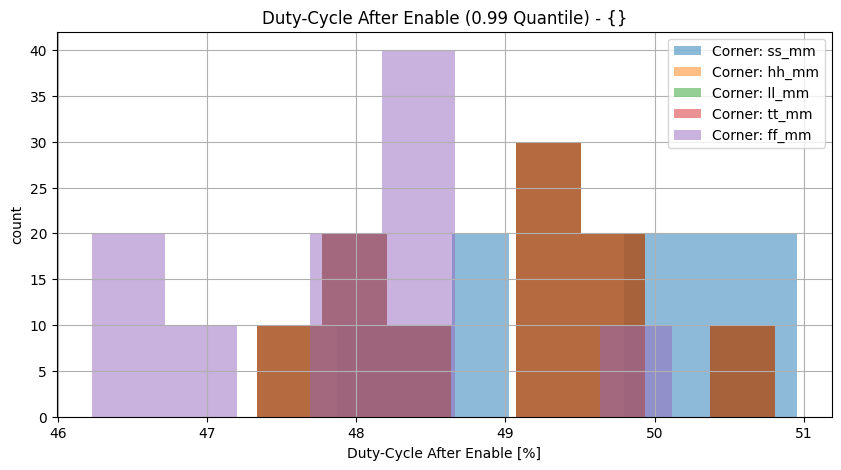
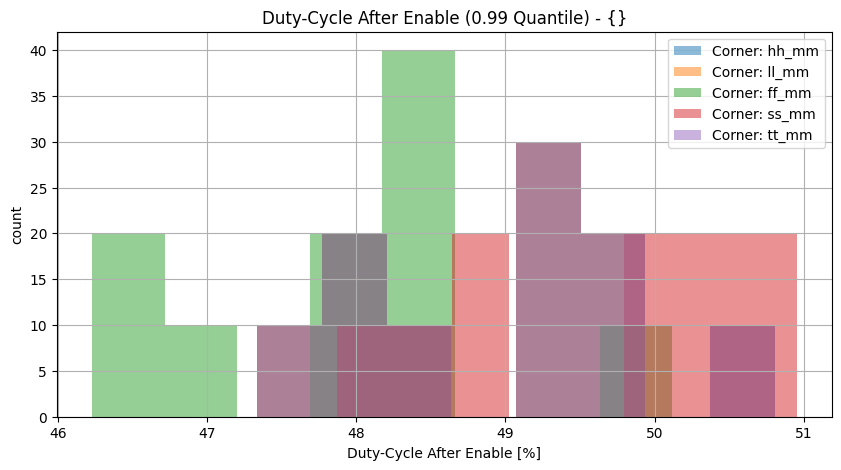
Jenkins update

Changed region(s): [[0.0927, 0.0894, 0.9584, 0.8936], [0.8966, 0.0894, 0.9893, 0.2085], [0.8966, 0.2383, 0.9893, 0.2979]]

diff --git a/riosc/riosc/Readme.md b/riosc/riosc/Readme.md
@@ -1,4 +1,4 @@
-28.02.2023, 12:41:00
+28.02.2023, 13:57:19
 
 # Ring Oscillator
 
@@ -43,9 +43,9 @@ LVS-state: Netlists match uniquely.<br>
 
 | Parameter | Min (Spec. / Sim.) |      | Max (Sim. / Spec.) | Unit | Checks (total/pass/fail/NaN) | Comment |
 | :-------- | -----------------: | :--: | :----------------- | :--- | :--------------------------- | ------- |
-| High Duration | 10.0 / 48.108 | <svg height="20" width="150"><polyline points="3.0,3,3.0,17,147.0,17,147.0,3" style="fill:none;stroke:gray;stroke-width:1" /><polyline points="75.0,10.0,75.0,17" style="fill:none;stroke:gray;stroke-width:1" /><polyline points="63.9728,10.0,93.3648,10.0" style="stroke:green;stroke-width:2" /><circle cx="63.9728" cy="10.0" r="3" style="fill:green;stroke:green;stroke-width:0" /><circle cx="93.3648" cy="10.0" r="3" style="fill:green;stroke:green;stroke-width:0" /></svg> | 66.478 / 100.0 | ns | 45/100.0%/0.0%/0.0% | Last period before oscillator disable |
-| Period Duration | 20.0 / 99.14 | <svg height="20" width="150"><polyline points="3.0,3,3.0,17,147.0,17,147.0,3" style="fill:none;stroke:gray;stroke-width:1" /><polyline points="75.0,10.0,75.0,17" style="fill:none;stroke:gray;stroke-width:1" /><polyline points="66.312256,10.0,99.16136,10.0" style="stroke:green;stroke-width:2" /><circle cx="66.312256" cy="10.0" r="3" style="fill:green;stroke:green;stroke-width:0" /><circle cx="99.16136" cy="10.0" r="3" style="fill:green;stroke:green;stroke-width:0" /></svg> | 140.202 / 200.0 | ns | 45/100.0%/0.0%/0.0% | First period after oscillator enable |
-| Duty-Cycle | 40 / 45.391 | <svg height="20" width="150"><polyline points="3.0,3,3.0,17,147.0,17,147.0,3" style="fill:none;stroke:gray;stroke-width:1" /><polyline points="75.0,10.0,75.0,17" style="fill:none;stroke:gray;stroke-width:1" /><polyline points="41.812248000000025,10.0,77.80296,10.0" style="stroke:green;stroke-width:2" /><circle cx="41.812248000000025" cy="10.0" r="3" style="fill:green;stroke:green;stroke-width:0" /><circle cx="77.80296" cy="10.0" r="3" style="fill:green;stroke:green;stroke-width:0" /></svg> | 50.389 / 60 | % | 45/100.0%/0.0%/0.0% | First period after oscillator enable |
+| High Duration | 10.0 / 48.034 | <svg height="20" width="150"><polyline points="3.0,3,3.0,17,147.0,17,147.0,3" style="fill:none;stroke:gray;stroke-width:1" /><polyline points="75.0,10.0,75.0,17" style="fill:none;stroke:gray;stroke-width:1" /><polyline points="63.85439999999999,10.0,92.72160000000001,10.0" style="stroke:green;stroke-width:2" /><circle cx="63.85439999999999" cy="10.0" r="3" style="fill:green;stroke:green;stroke-width:0" /><circle cx="92.72160000000001" cy="10.0" r="3" style="fill:green;stroke:green;stroke-width:0" /></svg> | 66.076 / 100.0 | ns | 45/100.0%/0.0%/0.0% | Last period before oscillator disable |
+| Period Duration | 20.0 / 98.895 | <svg height="20" width="150"><polyline points="3.0,3,3.0,17,147.0,17,147.0,3" style="fill:none;stroke:gray;stroke-width:1" /><polyline points="75.0,10.0,75.0,17" style="fill:none;stroke:gray;stroke-width:1" /><polyline points="66.11639199999999,10.0,98.66888000000002,10.0" style="stroke:green;stroke-width:2" /><circle cx="66.11639199999999" cy="10.0" r="3" style="fill:green;stroke:green;stroke-width:0" /><circle cx="98.66888000000002" cy="10.0" r="3" style="fill:green;stroke:green;stroke-width:0" /></svg> | 139.586 / 200.0 | ns | 45/100.0%/0.0%/0.0% | First period after oscillator enable |
+| Duty-Cycle | 40 / 45.894 | <svg height="20" width="150"><polyline points="3.0,3,3.0,17,147.0,17,147.0,3" style="fill:none;stroke:gray;stroke-width:1" /><polyline points="75.0,10.0,75.0,17" style="fill:none;stroke:gray;stroke-width:1" /><polyline points="45.43514400000003,10.0,79.950144,10.0" style="stroke:green;stroke-width:2" /><circle cx="45.43514400000003" cy="10.0" r="3" style="fill:green;stroke:green;stroke-width:0" /><circle cx="79.950144" cy="10.0" r="3" style="fill:green;stroke:green;stroke-width:0" /></svg> | 50.688 / 60 | % | 45/100.0%/0.0%/0.0% | First period after oscillator enable |
 
 <br>
 
@@ -54,9 +54,9 @@ LVS-state: Netlists match uniquely.<br>
 
 | Parameter | Min (Spec. / Sim.) |      | Max (Sim. / Spec.) | Unit | Checks (total/pass/fail/NaN) | Comment |
 | :-------- | -----------------: | :--: | :----------------- | :--- | :--------------------------- | ------- |
-| High Duration | 10.0 / 44.646 | <svg height="20" width="150"><polyline points="3.0,3,3.0,17,147.0,17,147.0,3" style="fill:none;stroke:gray;stroke-width:1" /><polyline points="75.0,10.0,75.0,17" style="fill:none;stroke:gray;stroke-width:1" /><polyline points="58.433600000000006,10.0,84.07360000000001,10.0" style="stroke:green;stroke-width:2" /><circle cx="58.433600000000006" cy="10.0" r="3" style="fill:green;stroke:green;stroke-width:0" /><circle cx="84.07360000000001" cy="10.0" r="3" style="fill:green;stroke:green;stroke-width:0" /></svg> | 60.671 / 100.0 | ns | 500/100.0%/0.0%/0.0% | Last period before oscillator disable |
-| Period Duration | 20.0 / 91.752 | <svg height="20" width="150"><polyline points="3.0,3,3.0,17,147.0,17,147.0,3" style="fill:none;stroke:gray;stroke-width:1" /><polyline points="75.0,10.0,75.0,17" style="fill:none;stroke:gray;stroke-width:1" /><polyline points="60.401976000000005,10.0,87.69480000000001,10.0" style="stroke:green;stroke-width:2" /><circle cx="60.401976000000005" cy="10.0" r="3" style="fill:green;stroke:green;stroke-width:0" /><circle cx="87.69480000000001" cy="10.0" r="3" style="fill:green;stroke:green;stroke-width:0" /></svg> | 125.869 / 200.0 | ns | 500/100.0%/0.0%/0.0% | First period after oscillator enable |
-| Duty-Cycle | 40 / 43.899 | <svg height="20" width="150"><polyline points="3.0,3,3.0,17,147.0,17,147.0,3" style="fill:none;stroke:gray;stroke-width:1" /><polyline points="75.0,10.0,75.0,17" style="fill:none;stroke:gray;stroke-width:1" /><polyline points="31.070208000000004,10.0,87.930696,10.0" style="stroke:green;stroke-width:2" /><circle cx="31.070208000000004" cy="10.0" r="3" style="fill:green;stroke:green;stroke-width:0" /><circle cx="87.930696" cy="10.0" r="3" style="fill:green;stroke:green;stroke-width:0" /></svg> | 51.796 / 60 | % | 500/100.0%/0.0%/0.0% | First period after oscillator enable |
+| High Duration | 10.0 / 44.541 | <svg height="20" width="150"><polyline points="3.0,3,3.0,17,147.0,17,147.0,3" style="fill:none;stroke:gray;stroke-width:1" /><polyline points="75.0,10.0,75.0,17" style="fill:none;stroke:gray;stroke-width:1" /><polyline points="58.265600000000006,10.0,84.50880000000001,10.0" style="stroke:green;stroke-width:2" /><circle cx="58.265600000000006" cy="10.0" r="3" style="fill:green;stroke:green;stroke-width:0" /><circle cx="84.50880000000001" cy="10.0" r="3" style="fill:green;stroke:green;stroke-width:0" /></svg> | 60.943 / 100.0 | ns | 500/100.0%/0.0%/0.0% | Last period before oscillator disable |
+| Period Duration | 20.0 / 91.532 | <svg height="20" width="150"><polyline points="3.0,3,3.0,17,147.0,17,147.0,3" style="fill:none;stroke:gray;stroke-width:1" /><polyline points="75.0,10.0,75.0,17" style="fill:none;stroke:gray;stroke-width:1" /><polyline points="60.22532799999999,10.0,86.82624000000001,10.0" style="stroke:green;stroke-width:2" /><circle cx="60.22532799999999" cy="10.0" r="3" style="fill:green;stroke:green;stroke-width:0" /><circle cx="86.82624000000001" cy="10.0" r="3" style="fill:green;stroke:green;stroke-width:0" /></svg> | 124.783 / 200.0 | ns | 500/100.0%/0.0%/0.0% | First period after oscillator enable |
+| Duty-Cycle | 40 / 44.027 | <svg height="20" width="150"><polyline points="3.0,3,3.0,17,147.0,17,147.0,3" style="fill:none;stroke:gray;stroke-width:1" /><polyline points="75.0,10.0,75.0,17" style="fill:none;stroke:gray;stroke-width:1" /><polyline points="31.992527999999975,10.0,89.03906399999998,10.0" style="stroke:green;stroke-width:2" /><circle cx="31.992527999999975" cy="10.0" r="3" style="fill:green;stroke:green;stroke-width:0" /><circle cx="89.03906399999998" cy="10.0" r="3" style="fill:green;stroke:green;stroke-width:0" /></svg> | 51.95 / 60 | % | 500/100.0%/0.0%/0.0% | First period after oscillator enable |
 
 <br>
 

diff --git a/riosc/riosc/specReport.md b/riosc/riosc/specReport.md
@@ -25,9 +25,9 @@
 
 | Parameter | Min (Spec. / Sim.) |      | Max (Sim. / Spec.) | Unit | Checks (total/pass/fail/NaN) | Comment |
 | :-------- | -----------------: | :--: | :----------------- | :--- | :--------------------------- | ------- |
-| High Duration | 10.0 / 48.108 | <svg height="20" width="150"><polyline points="3.0,3,3.0,17,147.0,17,147.0,3" style="fill:none;stroke:gray;stroke-width:1" /><polyline points="75.0,10.0,75.0,17" style="fill:none;stroke:gray;stroke-width:1" /><polyline points="63.9728,10.0,93.3648,10.0" style="stroke:green;stroke-width:2" /><circle cx="63.9728" cy="10.0" r="3" style="fill:green;stroke:green;stroke-width:0" /><circle cx="93.3648" cy="10.0" r="3" style="fill:green;stroke:green;stroke-width:0" /></svg> | 66.478 / 100.0 | ns | 45/100.0%/0.0%/0.0% | Last period before oscillator disable |
-| Period Duration | 20.0 / 99.14 | <svg height="20" width="150"><polyline points="3.0,3,3.0,17,147.0,17,147.0,3" style="fill:none;stroke:gray;stroke-width:1" /><polyline points="75.0,10.0,75.0,17" style="fill:none;stroke:gray;stroke-width:1" /><polyline points="66.312256,10.0,99.16136,10.0" style="stroke:green;stroke-width:2" /><circle cx="66.312256" cy="10.0" r="3" style="fill:green;stroke:green;stroke-width:0" /><circle cx="99.16136" cy="10.0" r="3" style="fill:green;stroke:green;stroke-width:0" /></svg> | 140.202 / 200.0 | ns | 45/100.0%/0.0%/0.0% | First period after oscillator enable |
-| Duty-Cycle | 40 / 45.391 | <svg height="20" width="150"><polyline points="3.0,3,3.0,17,147.0,17,147.0,3" style="fill:none;stroke:gray;stroke-width:1" /><polyline points="75.0,10.0,75.0,17" style="fill:none;stroke:gray;stroke-width:1" /><polyline points="41.812248000000025,10.0,77.80296,10.0" style="stroke:green;stroke-width:2" /><circle cx="41.812248000000025" cy="10.0" r="3" style="fill:green;stroke:green;stroke-width:0" /><circle cx="77.80296" cy="10.0" r="3" style="fill:green;stroke:green;stroke-width:0" /></svg> | 50.389 / 60 | % | 45/100.0%/0.0%/0.0% | First period after oscillator enable |
+| High Duration | 10.0 / 48.034 | <svg height="20" width="150"><polyline points="3.0,3,3.0,17,147.0,17,147.0,3" style="fill:none;stroke:gray;stroke-width:1" /><polyline points="75.0,10.0,75.0,17" style="fill:none;stroke:gray;stroke-width:1" /><polyline points="63.85439999999999,10.0,92.72160000000001,10.0" style="stroke:green;stroke-width:2" /><circle cx="63.85439999999999" cy="10.0" r="3" style="fill:green;stroke:green;stroke-width:0" /><circle cx="92.72160000000001" cy="10.0" r="3" style="fill:green;stroke:green;stroke-width:0" /></svg> | 66.076 / 100.0 | ns | 45/100.0%/0.0%/0.0% | Last period before oscillator disable |
+| Period Duration | 20.0 / 98.895 | <svg height="20" width="150"><polyline points="3.0,3,3.0,17,147.0,17,147.0,3" style="fill:none;stroke:gray;stroke-width:1" /><polyline points="75.0,10.0,75.0,17" style="fill:none;stroke:gray;stroke-width:1" /><polyline points="66.11639199999999,10.0,98.66888000000002,10.0" style="stroke:green;stroke-width:2" /><circle cx="66.11639199999999" cy="10.0" r="3" style="fill:green;stroke:green;stroke-width:0" /><circle cx="98.66888000000002" cy="10.0" r="3" style="fill:green;stroke:green;stroke-width:0" /></svg> | 139.586 / 200.0 | ns | 45/100.0%/0.0%/0.0% | First period after oscillator enable |
+| Duty-Cycle | 40 / 45.894 | <svg height="20" width="150"><polyline points="3.0,3,3.0,17,147.0,17,147.0,3" style="fill:none;stroke:gray;stroke-width:1" /><polyline points="75.0,10.0,75.0,17" style="fill:none;stroke:gray;stroke-width:1" /><polyline points="45.43514400000003,10.0,79.950144,10.0" style="stroke:green;stroke-width:2" /><circle cx="45.43514400000003" cy="10.0" r="3" style="fill:green;stroke:green;stroke-width:0" /><circle cx="79.950144" cy="10.0" r="3" style="fill:green;stroke:green;stroke-width:0" /></svg> | 50.688 / 60 | % | 45/100.0%/0.0%/0.0% | First period after oscillator enable |
 
 <br>
 
@@ -36,9 +36,9 @@
 
 | Parameter | Min (Spec. / Sim.) |      | Max (Sim. / Spec.) | Unit | Checks (total/pass/fail/NaN) | Comment |
 | :-------- | -----------------: | :--: | :----------------- | :--- | :--------------------------- | ------- |
-| High Duration | 10.0 / 44.646 | <svg height="20" width="150"><polyline points="3.0,3,3.0,17,147.0,17,147.0,3" style="fill:none;stroke:gray;stroke-width:1" /><polyline points="75.0,10.0,75.0,17" style="fill:none;stroke:gray;stroke-width:1" /><polyline points="58.433600000000006,10.0,84.07360000000001,10.0" style="stroke:green;stroke-width:2" /><circle cx="58.433600000000006" cy="10.0" r="3" style="fill:green;stroke:green;stroke-width:0" /><circle cx="84.07360000000001" cy="10.0" r="3" style="fill:green;stroke:green;stroke-width:0" /></svg> | 60.671 / 100.0 | ns | 500/100.0%/0.0%/0.0% | Last period before oscillator disable |
-| Period Duration | 20.0 / 91.752 | <svg height="20" width="150"><polyline points="3.0,3,3.0,17,147.0,17,147.0,3" style="fill:none;stroke:gray;stroke-width:1" /><polyline points="75.0,10.0,75.0,17" style="fill:none;stroke:gray;stroke-width:1" /><polyline points="60.401976000000005,10.0,87.69480000000001,10.0" style="stroke:green;stroke-width:2" /><circle cx="60.401976000000005" cy="10.0" r="3" style="fill:green;stroke:green;stroke-width:0" /><circle cx="87.69480000000001" cy="10.0" r="3" style="fill:green;stroke:green;stroke-width:0" /></svg> | 125.869 / 200.0 | ns | 500/100.0%/0.0%/0.0% | First period after oscillator enable |
-| Duty-Cycle | 40 / 43.899 | <svg height="20" width="150"><polyline points="3.0,3,3.0,17,147.0,17,147.0,3" style="fill:none;stroke:gray;stroke-width:1" /><polyline points="75.0,10.0,75.0,17" style="fill:none;stroke:gray;stroke-width:1" /><polyline points="31.070208000000004,10.0,87.930696,10.0" style="stroke:green;stroke-width:2" /><circle cx="31.070208000000004" cy="10.0" r="3" style="fill:green;stroke:green;stroke-width:0" /><circle cx="87.930696" cy="10.0" r="3" style="fill:green;stroke:green;stroke-width:0" /></svg> | 51.796 / 60 | % | 500/100.0%/0.0%/0.0% | First period after oscillator enable |
+| High Duration | 10.0 / 44.541 | <svg height="20" width="150"><polyline points="3.0,3,3.0,17,147.0,17,147.0,3" style="fill:none;stroke:gray;stroke-width:1" /><polyline points="75.0,10.0,75.0,17" style="fill:none;stroke:gray;stroke-width:1" /><polyline points="58.265600000000006,10.0,84.50880000000001,10.0" style="stroke:green;stroke-width:2" /><circle cx="58.265600000000006" cy="10.0" r="3" style="fill:green;stroke:green;stroke-width:0" /><circle cx="84.50880000000001" cy="10.0" r="3" style="fill:green;stroke:green;stroke-width:0" /></svg> | 60.943 / 100.0 | ns | 500/100.0%/0.0%/0.0% | Last period before oscillator disable |
+| Period Duration | 20.0 / 91.532 | <svg height="20" width="150"><polyline points="3.0,3,3.0,17,147.0,17,147.0,3" style="fill:none;stroke:gray;stroke-width:1" /><polyline points="75.0,10.0,75.0,17" style="fill:none;stroke:gray;stroke-width:1" /><polyline points="60.22532799999999,10.0,86.82624000000001,10.0" style="stroke:green;stroke-width:2" /><circle cx="60.22532799999999" cy="10.0" r="3" style="fill:green;stroke:green;stroke-width:0" /><circle cx="86.82624000000001" cy="10.0" r="3" style="fill:green;stroke:green;stroke-width:0" /></svg> | 124.783 / 200.0 | ns | 500/100.0%/0.0%/0.0% | First period after oscillator enable |
+| Duty-Cycle | 40 / 44.027 | <svg height="20" width="150"><polyline points="3.0,3,3.0,17,147.0,17,147.0,3" style="fill:none;stroke:gray;stroke-width:1" /><polyline points="75.0,10.0,75.0,17" style="fill:none;stroke:gray;stroke-width:1" /><polyline points="31.992527999999975,10.0,89.03906399999998,10.0" style="stroke:green;stroke-width:2" /><circle cx="31.992527999999975" cy="10.0" r="3" style="fill:green;stroke:green;stroke-width:0" /><circle cx="89.03906399999998" cy="10.0" r="3" style="fill:green;stroke:green;stroke-width:0" /></svg> | 51.95 / 60 | % | 500/100.0%/0.0%/0.0% | First period after oscillator enable |
 
 <br>
 

diff --git a/bmbg/bmbgota/Readme.md b/bmbg/bmbgota/Readme.md
@@ -1,4 +1,4 @@
-28.02.2023, 12:41:00
+28.02.2023, 13:57:19
 
 # Beta-Multiplier Bandgap OTA
 

diff --git a/bmbg/bmbg/Readme.md b/bmbg/bmbg/Readme.md
@@ -1,4 +1,4 @@
-28.02.2023, 12:41:00
+28.02.2023, 13:57:19
 
 # Beta-Multiplier Bandgap
 

diff --git a/vthref/vthref/Readme.md b/vthref/vthref/Readme.md
@@ -1,4 +1,4 @@
-28.02.2023, 12:41:00
+28.02.2023, 13:57:19
 
 # Vth Current Reference
 

diff --git a/ldo/ldo/Readme.md b/ldo/ldo/Readme.md
@@ -1,4 +1,4 @@
-28.02.2023, 12:41:00
+28.02.2023, 13:57:19
 
 # 1.8 V LDO
 

diff --git a/ldo/ldoota/Readme.md b/ldo/ldoota/Readme.md
@@ -1,4 +1,4 @@
-28.02.2023, 12:41:00
+28.02.2023, 13:57:19
 
 # LDO OP
 
